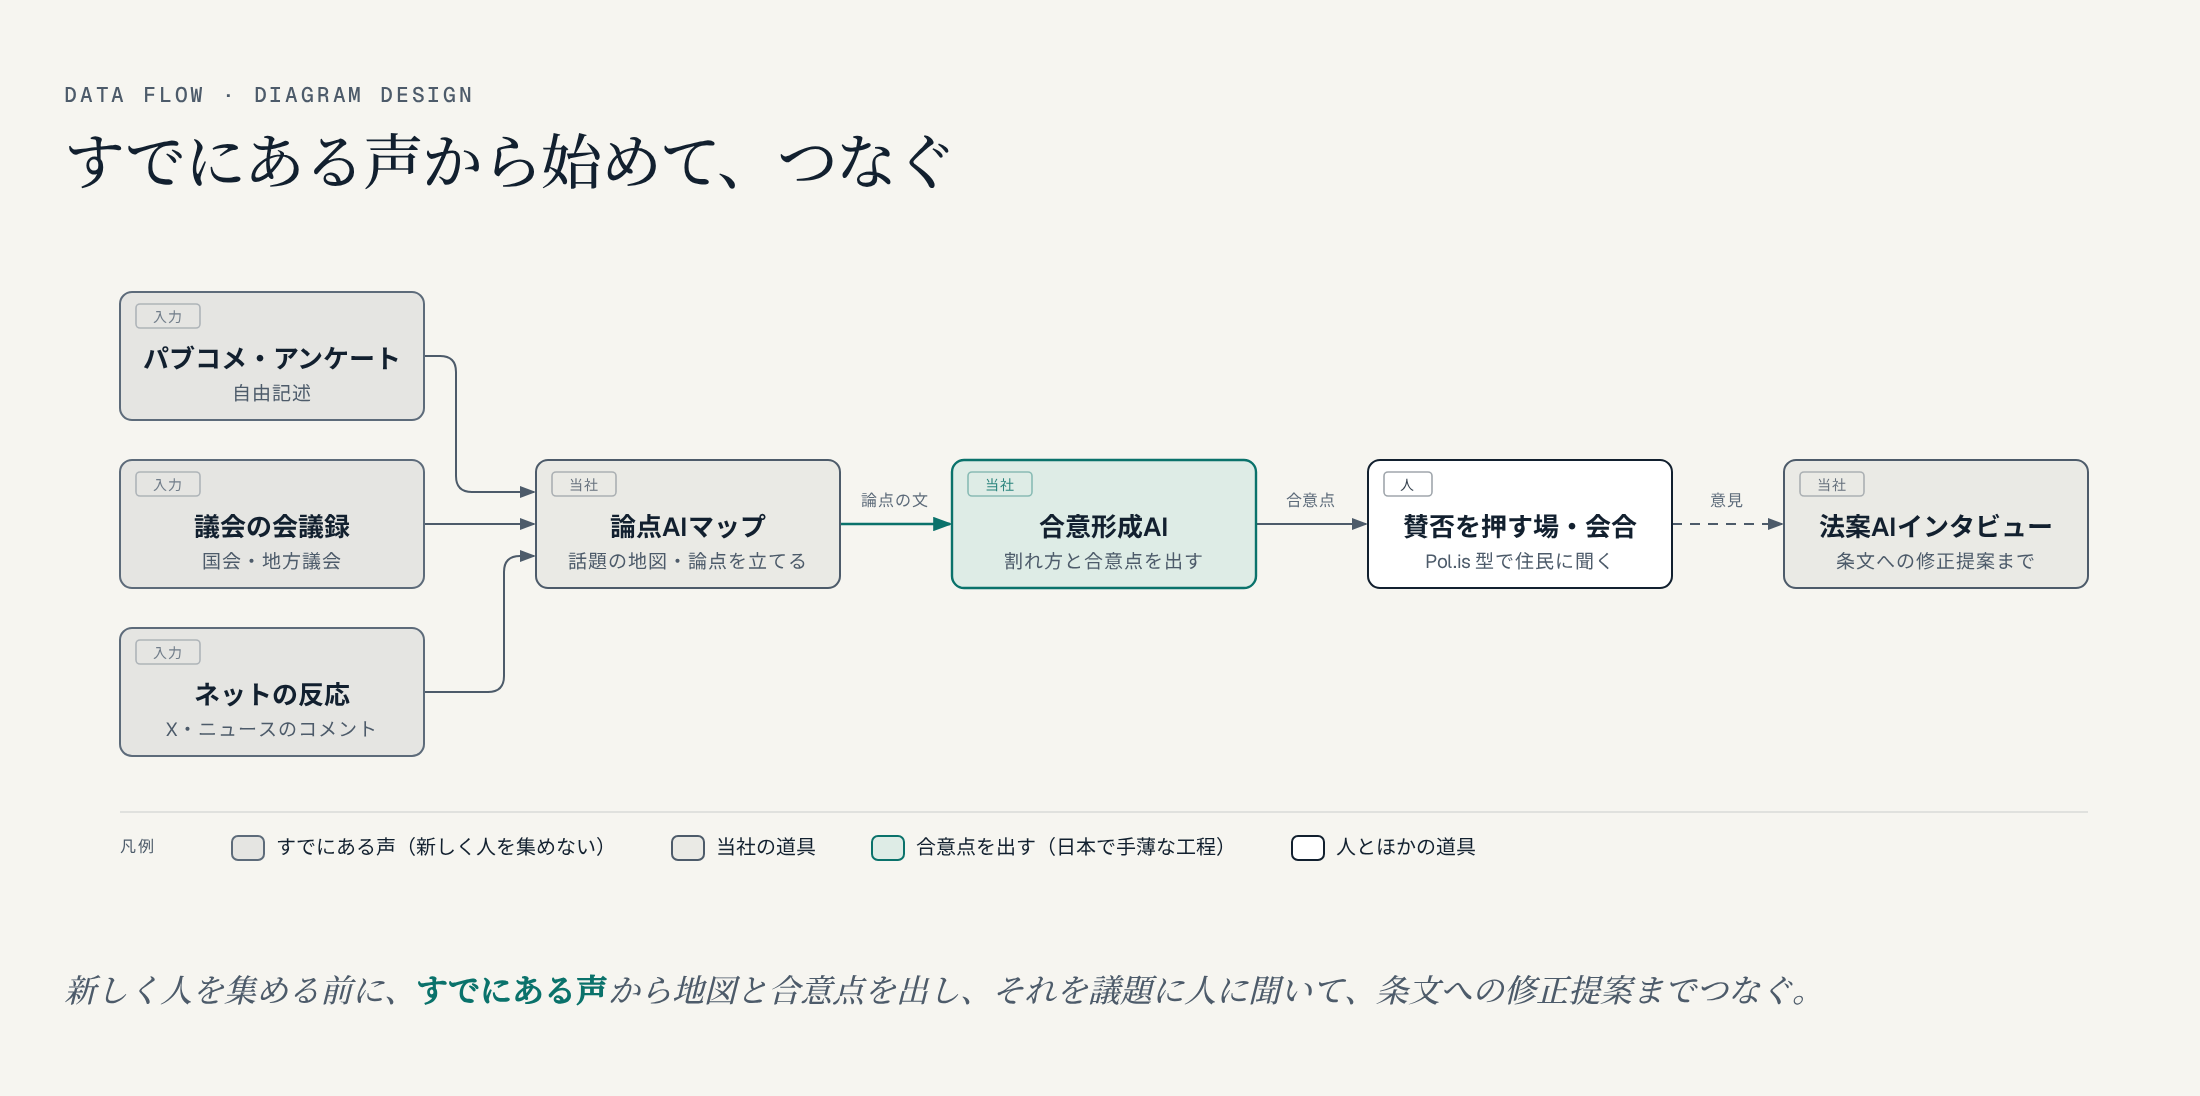
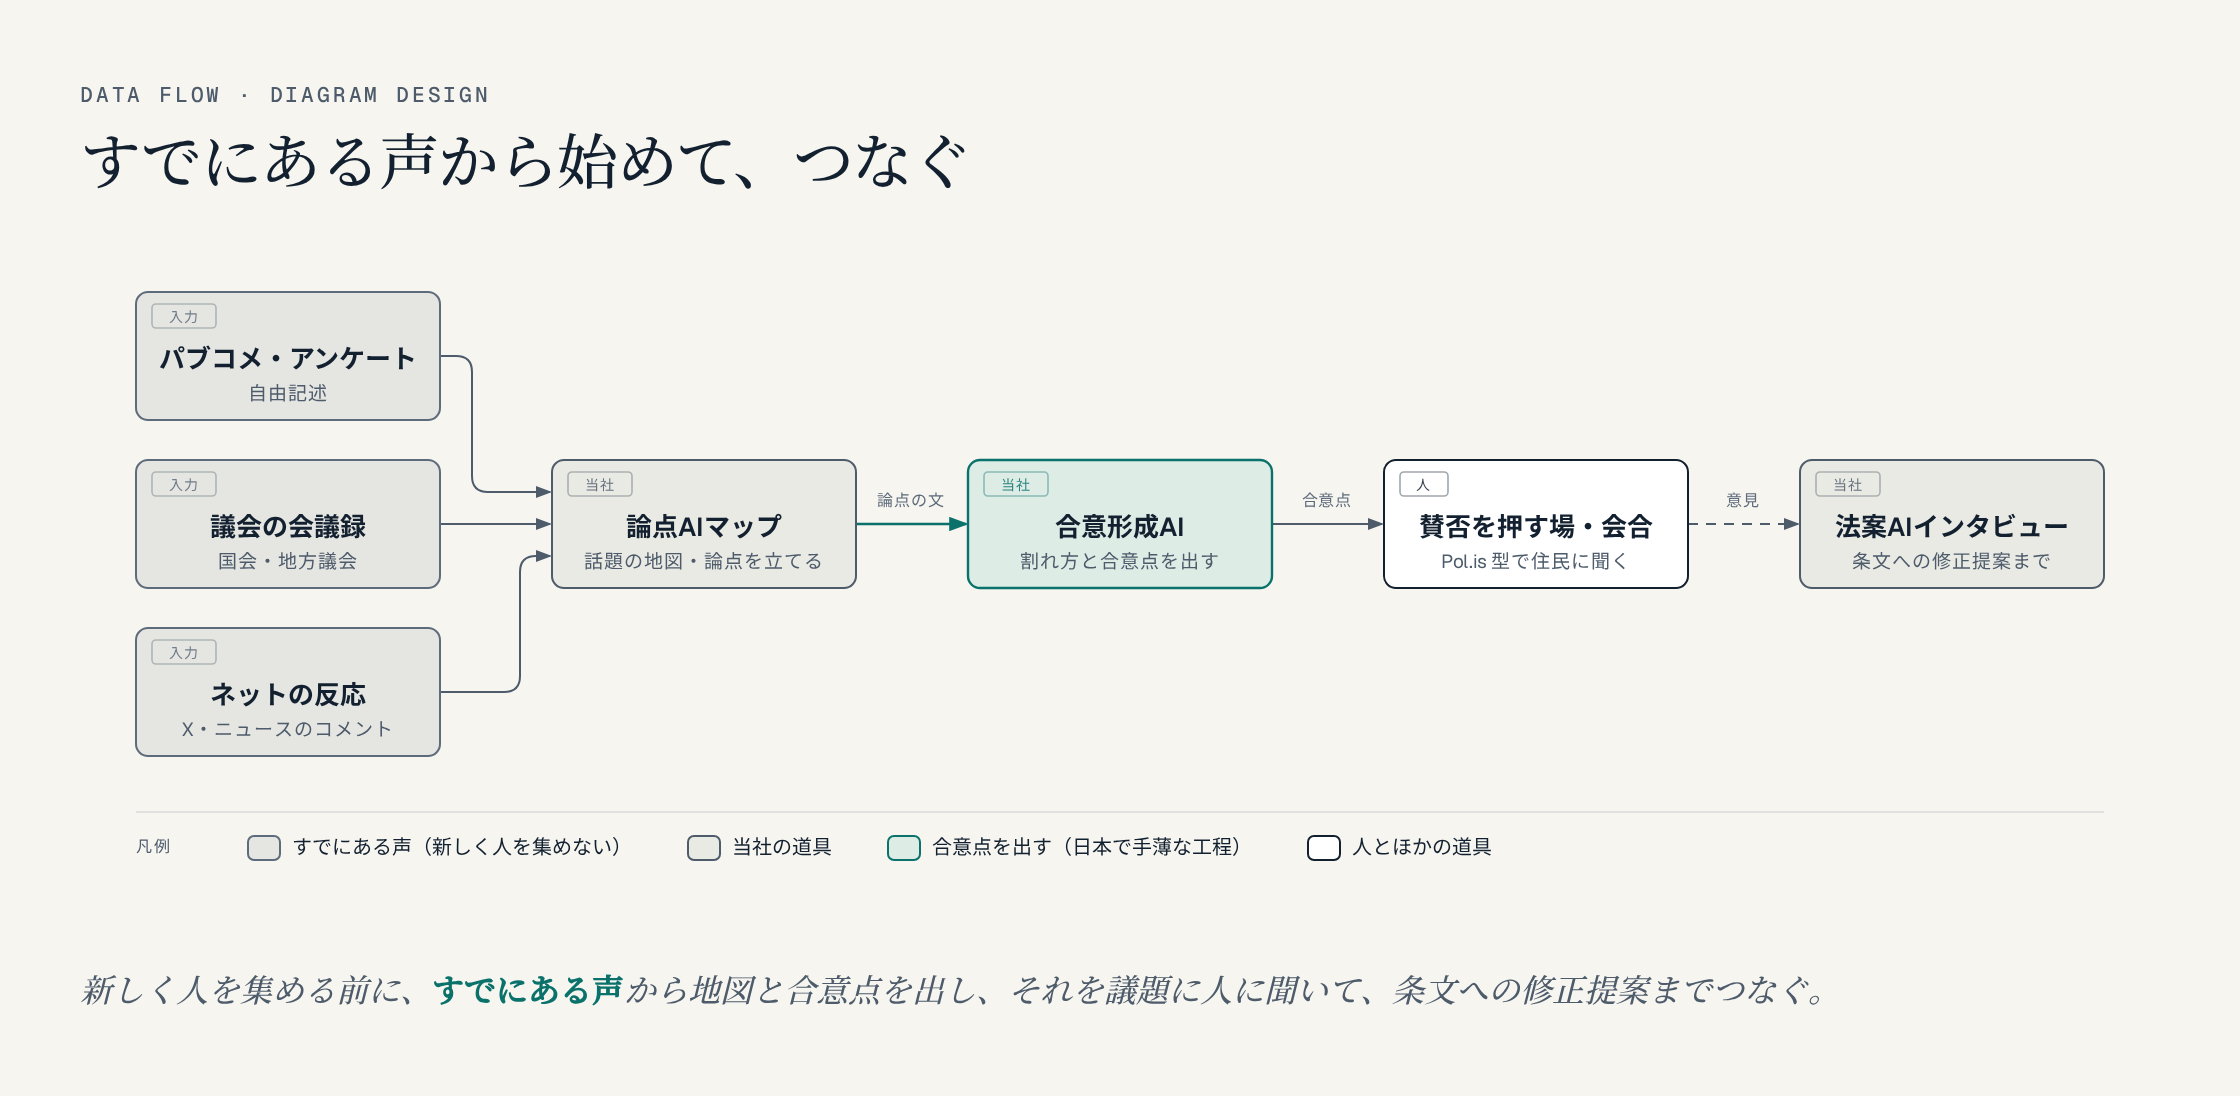
図の部分だけの画像（*-svg.png）を書き出し、2本の記事のトップ画像に図を入れる（og_figure）

diff --git a/diagrams/broad-listening/render.py b/diagrams/broad-listening/render.py
@@ -14,7 +14,7 @@ OUT = os.path.join(os.path.dirname(os.path.dirname(HERE)), "blog", "assets")
 with sync_playwright() as p:
     b = p.chromium.launch()
     for name in ("bl-stages", "bl-flow"):
-        pg = b.new_page(viewport={"width": 1100, "height": 800}, device_scale_factor=2)
+        pg = b.new_page(viewport={"width": 1260, "height": 800}, device_scale_factor=2)
         pg.goto("file://" + os.path.join(HERE, name + ".html"), wait_until="networkidle")
         pg.evaluate("document.fonts.ready")
         pg.wait_for_timeout(800)
@@ -23,4 +23,9 @@ with sync_playwright() as p:
         pg.screenshot(path=out, full_page=True, clip={"x": max(0, bb["x"] - 40), "y": max(0, bb["y"] - 40),
                                                       "width": bb["width"] + 80, "height": bb["height"] + 80})
         print(out)
+        # 見出し画像（OGP）用に、図（SVG）の部分だけも書き出す。見出しや注記を入れると図が小さくなり、Xの一覧で読めない
+        sv = pg.query_selector("svg").bounding_box()
+        svg_out = out[:-4] + "-svg.png"
+        pg.screenshot(path=svg_out, full_page=True, clip={"x": sv["x"] - 8, "y": sv["y"] - 8, "width": sv["width"] + 16, "height": sv["height"] + 16})
+        print(svg_out)
     b.close()

diff --git a/diagrams/ai-kudo-keiei/render.py b/diagrams/ai-kudo-keiei/render.py
@@ -23,4 +23,9 @@ with sync_playwright() as p:
         pg.screenshot(path=out, full_page=True, clip={"x": max(0, bb["x"] - 40), "y": max(0, bb["y"] - 40),
                                                       "width": bb["width"] + 80, "height": bb["height"] + 80})
         print(out)
+        # 見出し画像（OGP）用に、図（SVG）の部分だけも書き出す。見出しや注記を入れると図が小さくなり、Xの一覧で読めない
+        sv = pg.query_selector("svg").bounding_box()
+        svg_out = out[:-4] + "-svg.png"
+        pg.screenshot(path=svg_out, full_page=True, clip={"x": sv["x"] - 8, "y": sv["y"] - 8, "width": sv["width"] + 16, "height": sv["height"] + 16})
+        print(svg_out)
     b.close()

diff --git a/blog/2026-10-13-ai-kudo-keiei-4-dankai.md b/blog/2026-10-13-ai-kudo-keiei-4-dankai.md
@@ -10,6 +10,7 @@ tags: [AI駆動経営, AI活用, 業務自動化, AIエージェント, 経営, 
 description: "企業のAI活用を4段階で整理します。第1段階はAIに文章を作ってもらう、第2段階は資料やアプリで作業を支援、第3段階は仕組みが業務を進め人は例外を担う。第4段階の「AI駆動経営」では、AIが目的を持って次の仕事を見つけ、起こし続け、人は方向・判断・外への行動の承認・責任を担います。当社で実際に起きている例と、欠かせない4つの条件を書きます。"
 seo_title: "AI駆動経営とは｜企業のAI活用の4段階"
 head_keyword: "AI駆動経営"
+og_figure: "assets/ak-stages-svg.png"
 ---
 
 名古屋でAIシステム開発の会社をやっています。これまで、企業のAI活用を3つの段階で説明してきました。最近、その先にもう一つ、第4段階があると感じています。AIが目的を持って仕事を起こし続け、人は方向を決め、判断し、責任を持つ段階です。ここでは「AI駆動経営」と呼びます。
